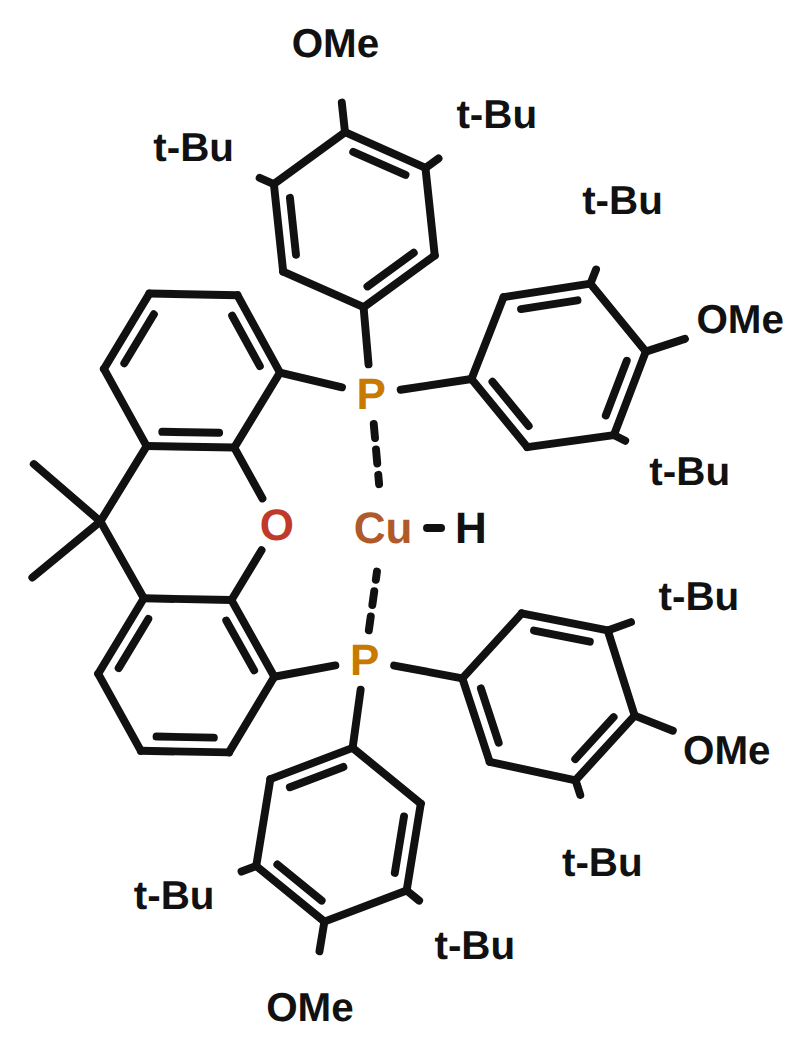
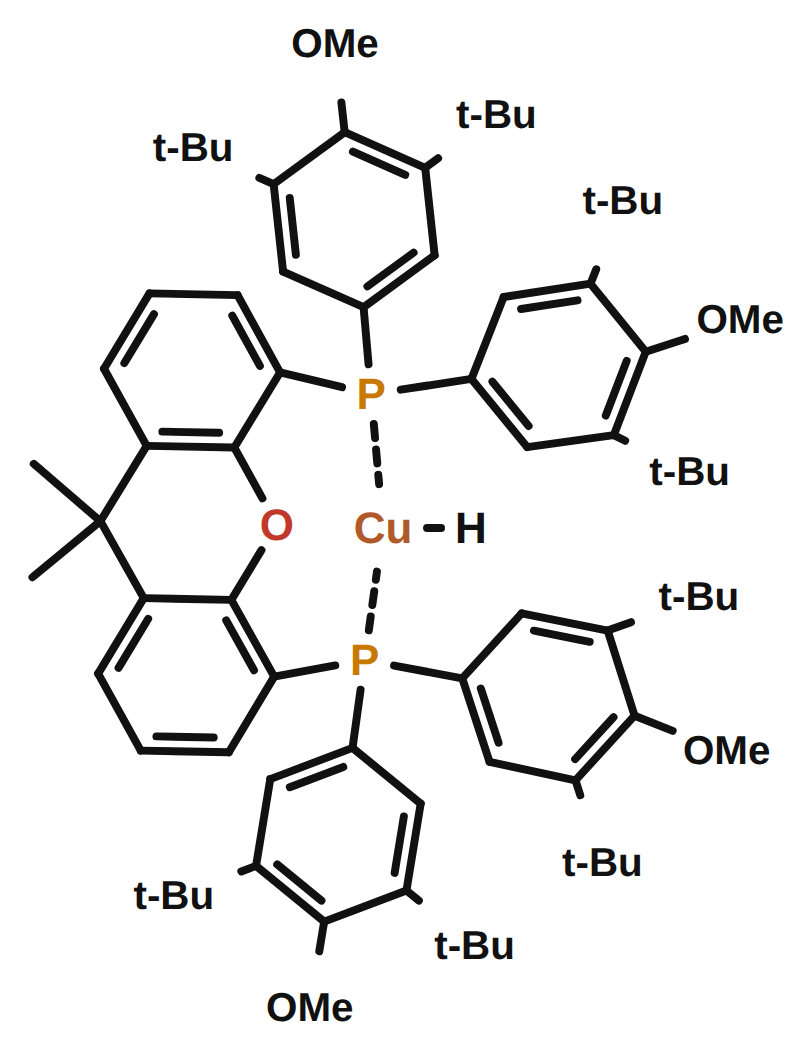
metaldepict: even 4-coordinate-P fan for DTBM-DPEPhos / DTBM-Xantphos
A 4-bond P (two aryls + backbone + Cu) can only average 360/4 = 90 deg between
adjacent bonds, so the fixed 112-deg junction target was unreachable and left an
uneven fan.  Added an opt-in Harness flag `p_tetra` that targets 360/n for a
4-bond P; enabled it only for DTBM-DPEPhos and DTBM-Xantphos (passed through
_smiles_H), where it evens the fan -- angleDevDeg 10.4->8.9 and 7.7->6.4 with
overlap/crossings unchanged (0 crossings).  Left off by default so every other
ligand and the whole matrix are byte-identical.

panels: the two named figures + cropped PNGs regenerated.

Claude-Session: https://claude.ai/code/session_01VEr4Hixwf6YDK6DNqMg3Gi

diff --git a/metaldepict/methods/relax_harness.py b/metaldepict/methods/relax_harness.py
@@ -77,7 +77,7 @@ class Harness:
     """Loads one ligand's Method-C seed and derives everything a relaxer needs."""
 
     def __init__(self, key=None, scene=None, title=None,
-                 exempt=None, extra_rigid=None):
+                 exempt=None, extra_rigid=None, p_tetra=False):
         # Two seed sources: a named hardcoded template (key -> M.BUILDERS[key]())
         # or any pre-built Scene (e.g. generated from a SMILES). The rest of the
         # harness -- ring/body detection, joints, angles, overlaps, metrics --
@@ -94,6 +94,7 @@ class Harness:
         self.key = key or "custom"
         self.scene = sc
         self.title = title
+        self.p_tetra = p_tetra                       # 360/n target for 4-bond P
         self._exempt = set(exempt) if exempt else set()
         self._extra_rigid = [set(g) for g in (extra_rigid or [])]
         self.pos = {i: (float(a.pos[0]), float(a.pos[1]))
@@ -264,7 +265,12 @@ class Harness:
             if self.label[j] == "Cu":
                 ideal = 120.0                      # trigonal metal
             elif self.label[j] == "P":
-                ideal = 112.0                      # ~tetrahedral-ish P
+                # 112 deg reads tetrahedral for a 3-bond P, but a 4-bond P (two
+                # substituents + backbone + Cu) can only average 360/4 = 90, so
+                # 112 is unreachable and leaves an uneven fan.  Opt-in per Harness
+                # (p_tetra) to target 360/n there -- a more even fan for the
+                # bulky 4-coordinate cases, applied only where it helps.
+                ideal = 360.0 / n if (self.p_tetra and n >= 4) else 112.0
             else:
                 ideal = 360.0 / n if n >= 3 else 120.0
             # consecutive neighbour pairs only (the drawn wedge between them)

diff --git a/metaldepict/methods/gen_named.py b/metaldepict/methods/gen_named.py
@@ -32,10 +32,10 @@ CANVAS, SCALE, ANCHOR = (1180, 980), 44.0, (740.0, 490.0)
 _CACHE = {}
 
 
-def _smiles_H(smi, name):
+def _smiles_H(smi, name, p_tetra=False):
     def fresh():
         sc, _ = S.scene_from_smiles(smi, name)
-        return R.Harness(scene=sc, title=name)
+        return R.Harness(scene=sc, title=name, p_tetra=p_tetra)
     H, _ = G.best_relax(fresh, key=f"named::{name}", cache=_CACHE)
     return H
 
@@ -181,10 +181,10 @@ def named():
         "DTBM-DPPBz")
     out["DTBM-DPEPhos"] = _smiles_H(
         G.ligand_smiles(G.BACKBONES["dpephos"], G.SUBSTITUENTS["dtbm"]),
-        "DTBM-DPEPhos")
+        "DTBM-DPEPhos", p_tetra=True)
     out["DTBM-Xantphos"] = _smiles_H(
         G.ligand_smiles(G.BACKBONES["xantphos"], G.SUBSTITUENTS["dtbm"]),
-        "DTBM-Xantphos")
+        "DTBM-Xantphos", p_tetra=True)
     out["DM-DPEPhos"] = _smiles_H(
         G.ligand_smiles(G.BACKBONES["dpephos"], "c1cc(C)cc(C)c1"), "DM-DPEPhos")
     return out
